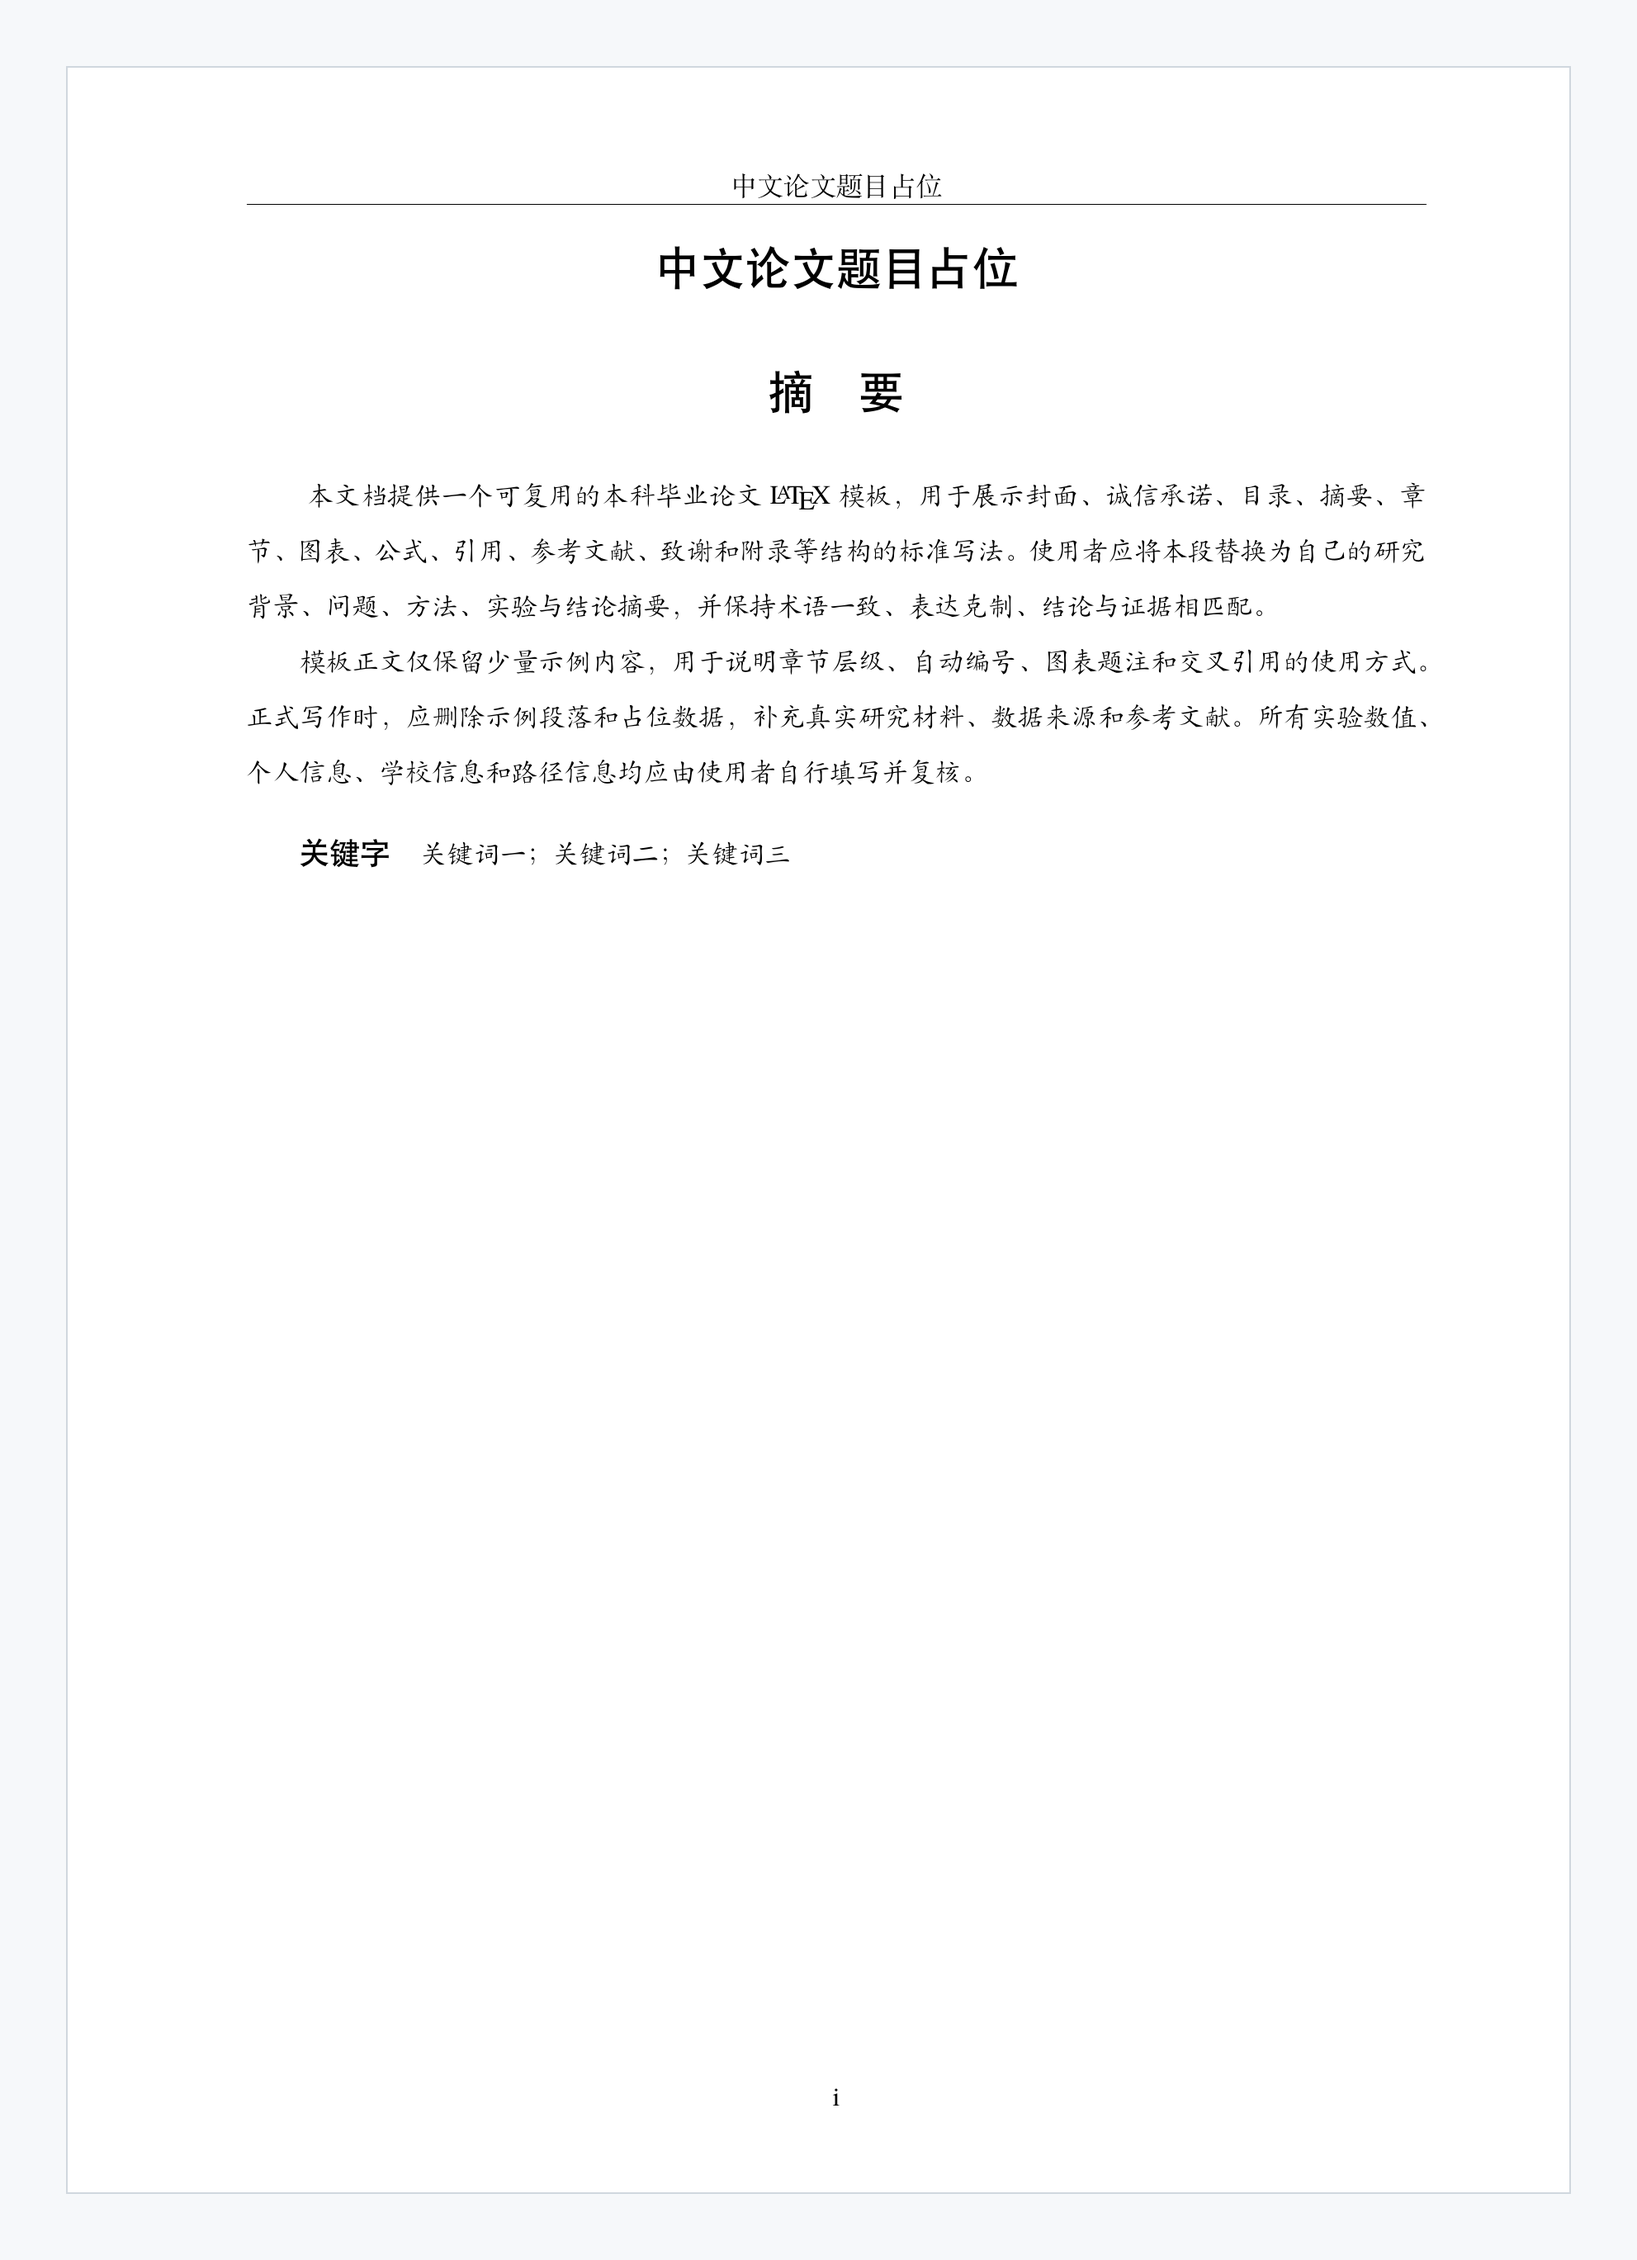
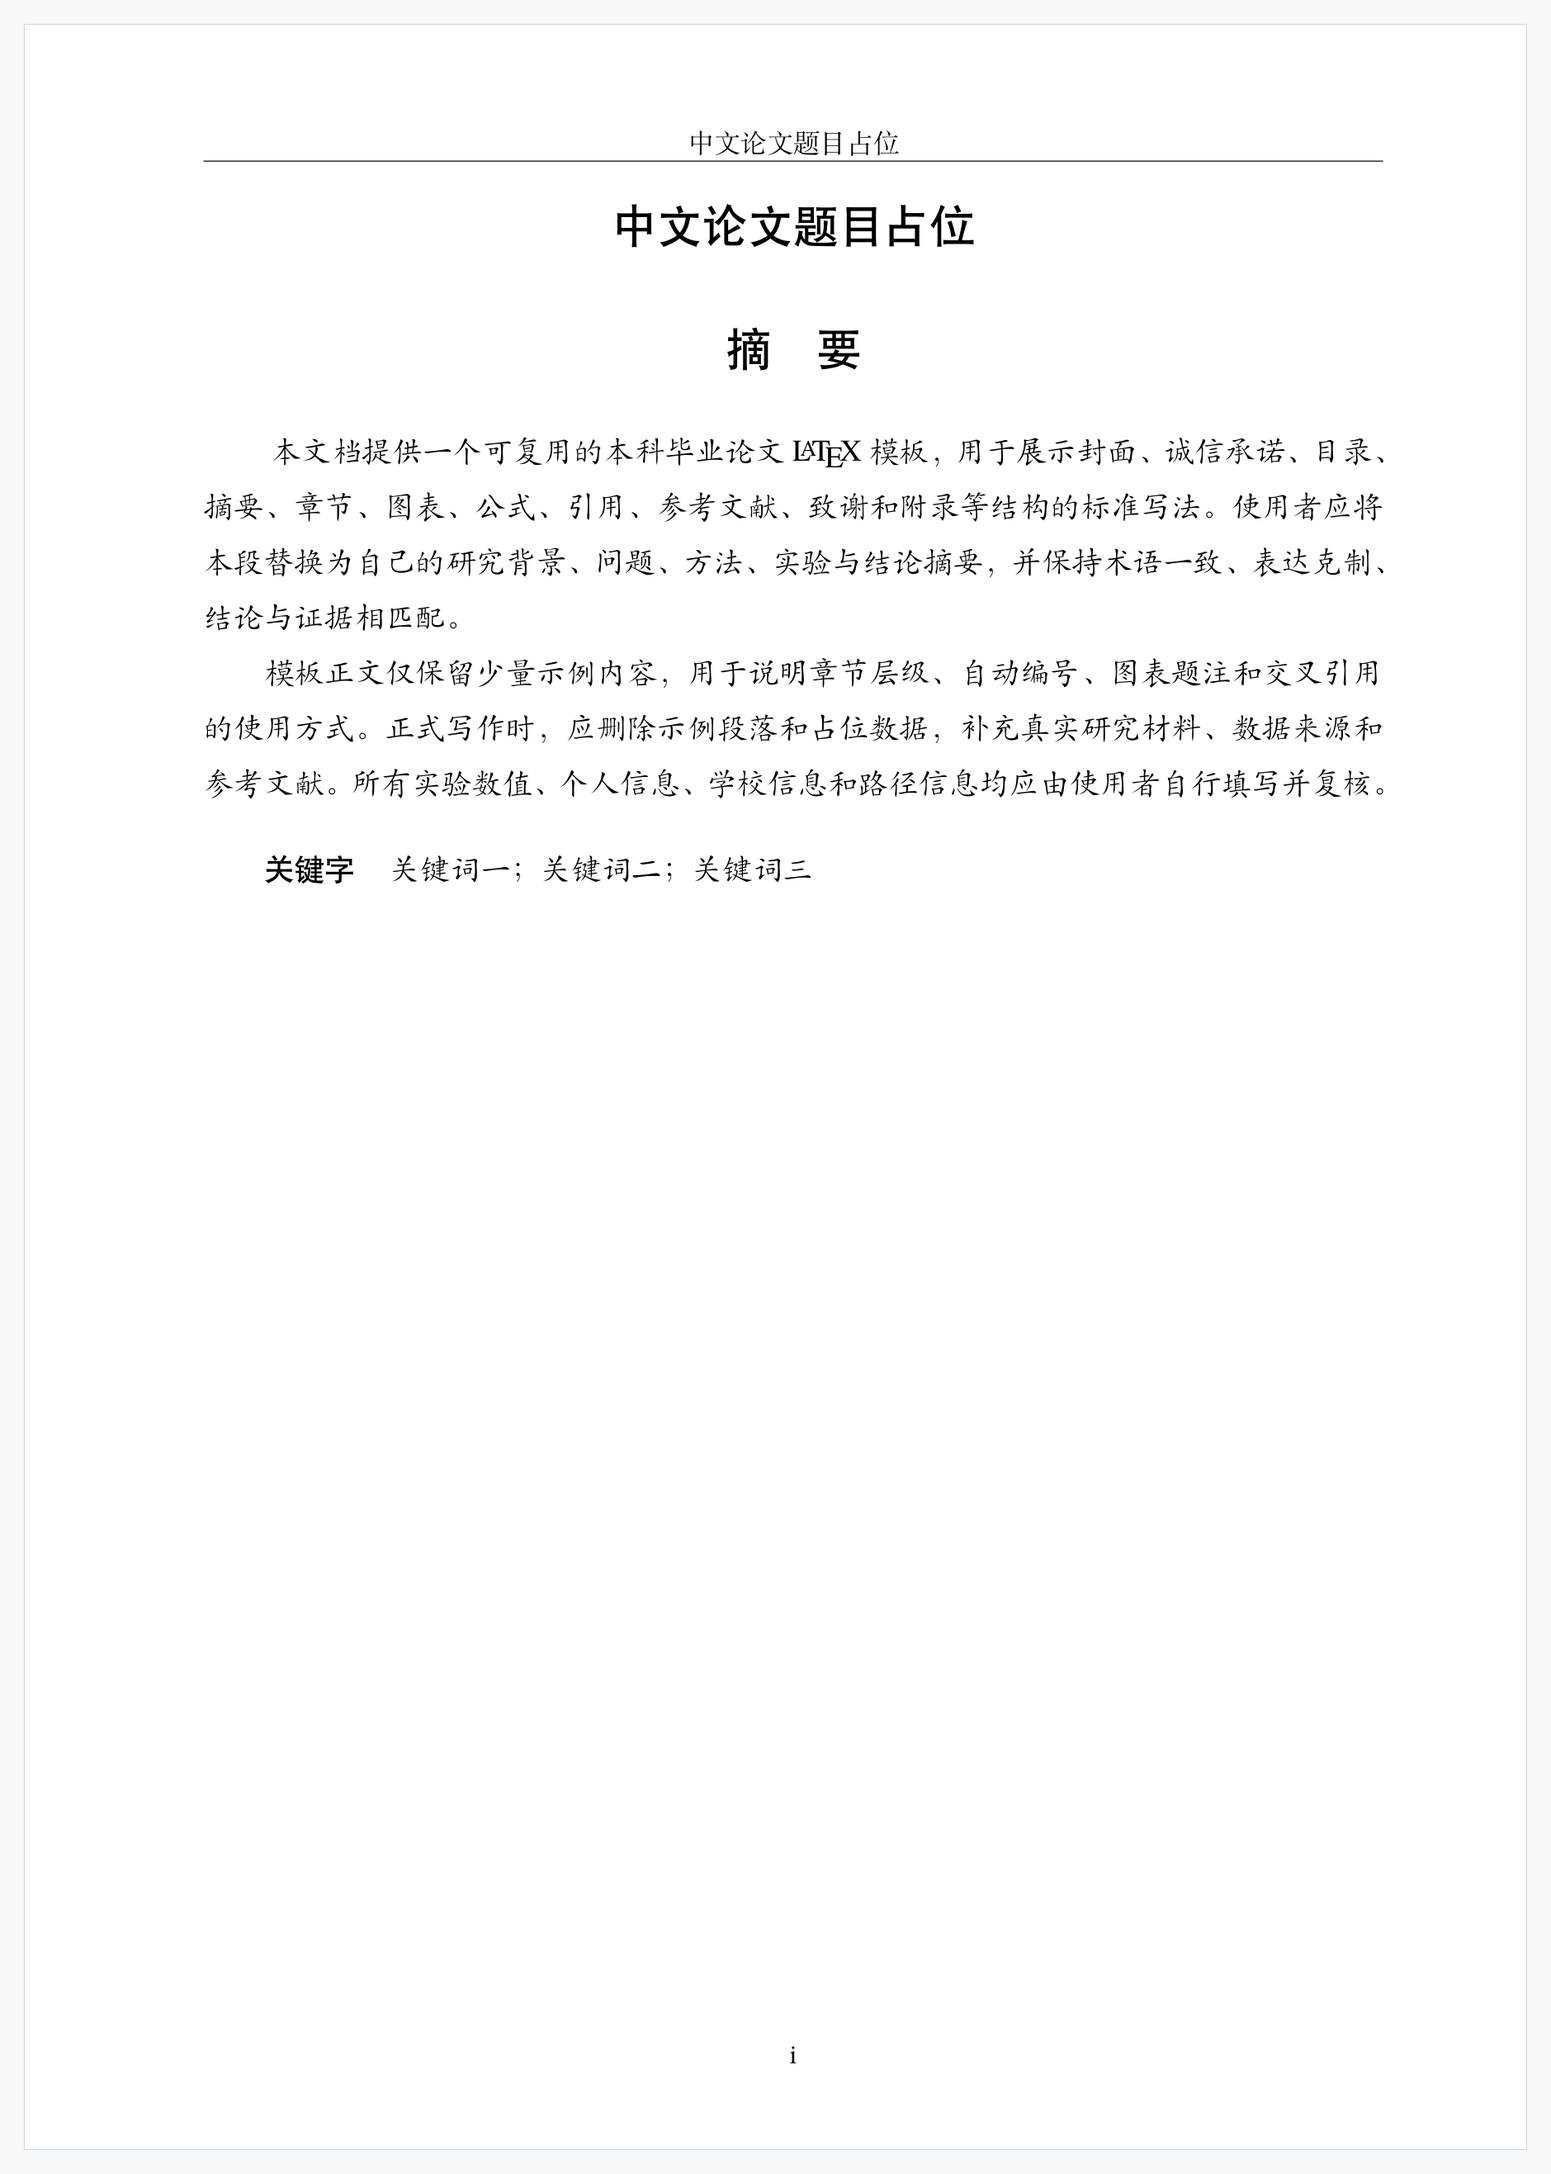
Update README for abstract and acknowledgements

Changed region(s): [[0.1543, 0.0623, 0.8952, 0.4049]]

diff --git a/README.md b/README.md
@@ -8,6 +8,8 @@
 
 以下图片由当前模板 PDF 以 220 DPI 渲染生成，用于快速查看封面、诚信承诺、目录和摘要页效果。预览图额外添加了浅灰展示底和细边框，便于在 GitHub 页面中辨认纸张边界；正式使用时，请以本地或 Overleaf 编译得到的 PDF 为准。
 
+当前预览已同步摘要格式修复：中英文摘要正文、中文关键词内容、英文 `KEYWORDS` 标签和英文关键词内容均按实际小四字号显示。
+
 <p align="center">
 	<img src="docs/preview/cover.png" alt="宁波大学本科毕业论文模板封面渲染预览" width="520">
 </p>
@@ -83,7 +85,7 @@ nbu-bachelor-thesis-template/
 │   ├── chapter4.tex         # 实验与表格示例
 │   └── chapter5.tex         # 结论与展望示例
 ├── backmatter/
-│   ├── acknowledgements.tex # 致谢占位文本
+│   ├── acknowledgements.tex # 致谢示例文本
 │   └── appendix_a.tex       # 附录占位文本
 ├── docs/
 │   └── preview/             # README 使用的高清渲染预览图
@@ -137,6 +139,8 @@ latexmk -c
 
 Overleaf 精简包可能不包含 `fonts/`，用于降低上传体积。Overleaf 自带 TeX Live 和 Fandol 字体，通常仍可编译；如果你在本地使用，建议使用包含 `fonts/` 的完整包。
 
+摘要页使用独立的中英文摘要字体配置，避免中文楷体或英文字体在 PDF 中被压缩为 10.5 pt；完整包和无 `fonts/` 的精简包均应保持摘要正文与关键词内容为实际 12 pt。
+
 如学校后续要求改用指定字体，可替换 `fonts/` 中的字体文件，并同步修改 `nbubachelor.cls` 的字体配置。重新分发字体文件时，请遵守字体各自许可证。
 
 ## 如何使用模板
@@ -145,12 +149,13 @@ Overleaf 精简包可能不包含 `fonts/`，用于降低上传体积。Overleaf
 2. 先原样编译一次，确认 `build/main.pdf` 能生成。
 3. 在 `main.tex` 中保留 `\universityname{宁波大学}` 与 `\college{信息科学与工程学院}`。模板默认记录整理者贡献信息：专业为“计算机科学与技术”，班级为“2022 级阳明创新 2 班”，学生姓名为“马千里”。正式用于个人论文时，请替换 `\titlecn`、`\titleen`、`\majorname`、`\classname`、`\studentid`、`\authorname`、`\supervisor`、`\finishdate`、`\declarationdate`、`\keywordszh` 和 `\keywordsen`。
 4. 在 `frontmatter/abstract_zh.tex` 和 `frontmatter/abstract_en.tex` 中重写摘要正文。
-5. 在 `chapters/` 中替换示例章节内容。新增章节时，先创建 `chapters/your_chapter.tex`，再在 `main.tex` 中添加 `\input{chapters/your_chapter}`。
-6. 将图片放入 `figures/`，在正文中用 `figure` 环境和 `\includegraphics` 引用。文件名建议只使用英文、数字、短横线或下划线。
-7. 将复杂表格拆到 `tables/`，在章节中用 `\input{tables/table_name}` 引入。
-8. 在 `references.bib` 中维护参考文献，并在正文中用 `\cite{citation-key}` 引用。修改参考文献后请重新运行 `latexmk -xelatex main.tex`。
-9. 链接脚注示例见 `chapters/chapter1.tex`，写法为 `\footnote{\href{https://github.com/Yuki-zik}{GitHub: Yuki-zik}}`。
-10. 每次提交或交给老师前，重新完整编译一次，并检查目录、图表编号、参考文献和 PDF 页眉页脚。
+5. 在 `backmatter/acknowledgements.tex` 中将致谢示例替换为自己的真实表达。
+6. 在 `chapters/` 中替换示例章节内容。新增章节时，先创建 `chapters/your_chapter.tex`，再在 `main.tex` 中添加 `\input{chapters/your_chapter}`。
+7. 将图片放入 `figures/`，在正文中用 `figure` 环境和 `\includegraphics` 引用。文件名建议只使用英文、数字、短横线或下划线。
+8. 将复杂表格拆到 `tables/`，在章节中用 `\input{tables/table_name}` 引入。
+9. 在 `references.bib` 中维护参考文献，并在正文中用 `\cite{citation-key}` 引用。修改参考文献后请重新运行 `latexmk -xelatex main.tex`。
+10. 链接脚注示例见 `chapters/chapter1.tex`，写法为 `\footnote{\href{https://github.com/Yuki-zik}{GitHub: Yuki-zik}}`。
+11. 每次提交或交给老师前，重新完整编译一次，并检查目录、图表编号、参考文献和 PDF 页眉页脚。
 
 ## 第一次修改清单
 
@@ -159,10 +164,11 @@ Overleaf 精简包可能不包含 `fonts/`，用于降低上传体积。Overleaf
 1. 在 `main.tex` 中替换中文题目、英文题目、专业、班级、学号、姓名、指导教师、日期和关键词。
 2. 在 `frontmatter/abstract_zh.tex` 写中文摘要。
 3. 在 `frontmatter/abstract_en.tex` 写英文摘要。
-4. 从 `chapters/chapter1.tex` 开始替换正文示例。
-5. 把自己的图片放入 `figures/`，把自己的表格放入 `tables/`。
-6. 在 `references.bib` 中添加真实参考文献，并在正文中使用 `\cite{...}` 引用。
-7. 运行 `latexmk -xelatex main.tex`，打开 `build/main.pdf` 检查结果。
+4. 在 `backmatter/acknowledgements.tex` 重写致谢。
+5. 从 `chapters/chapter1.tex` 开始替换正文示例。
+6. 把自己的图片放入 `figures/`，把自己的表格放入 `tables/`。
+7. 在 `references.bib` 中添加真实参考文献，并在正文中使用 `\cite{...}` 引用。
+8. 运行 `latexmk -xelatex main.tex`，打开 `build/main.pdf` 检查结果。
 
 ## 常见问题
 
@@ -203,7 +209,7 @@ Overleaf 用户请使用 `Recompile from scratch`。
 - 字体：模板随附 FandolSong、FandolHei、FandolKai 和 TeX Gyre Termes 作为宋体、黑体、楷体和 Times 兼容字体。
 - 章节：一级标题居中，二级和三级标题左对齐；正文最多使用 `\chapter`、`\section`、`\subsection` 三级标题。
 - 目录：自动生成，显示到三级标题；目录内容宋体五号、单倍行距，页码右对齐。
-- 摘要：中文摘要和英文摘要分别使用 `\zhabstract{...}` 与 `\enabstract{...}`；关键词在 `main.tex` 中统一设置。
+- 摘要：中文摘要和英文摘要分别使用 `\zhabstract{...}` 与 `\enabstract{...}`；关键词在 `main.tex` 中统一设置；摘要正文、关键词内容和英文 `KEYWORDS` 标签按实际小四 12 pt、固定 22 pt 行距输出。
 - 图题：自动输出为 `图1-1  图题`，图号和题名之间为两个普通空格；正文使用 `图~\ref{...}` 引用。
 - 表题：自动输出为 `表1-1  表题`；普通表格优先使用 `booktabs` 三线表。
 - 公式：使用 LaTeX 公式环境，编号自动为 `(章节号.公式号)`；正文中使用 `式~\eqref{...}` 引用。
